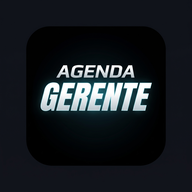
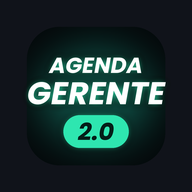
Agenda del Gerente v2.3.0: ícono propio 2.0 en menta, etiqueta 2.0 en el encabezado y nombre Agenda 2.0
Claude-Session: https://claude.ai/code/session_015HPKsB2LxDumpeuGcFNri5

diff --git a/index.html b/index.html
@@ -6,8 +6,8 @@
 <title>Agenda del Gerente</title>
 <meta name="theme-color" content="#1C2B39">
 <link rel="manifest" href="manifest.json">
-<link rel="icon" type="image/png" sizes="32x32" href="icons/favicon-32.png">
-<link rel="apple-touch-icon" href="icons/apple-touch-icon.png">
+<link rel="icon" type="image/png" sizes="32x32" href="icons/favicon-32.png?v=3">
+<link rel="apple-touch-icon" href="icons/apple-touch-icon.png?v=3">
 <meta name="apple-mobile-web-app-capable" content="yes">
 <link rel="preconnect" href="https://fonts.googleapis.com">
 <link rel="preconnect" href="https://fonts.gstatic.com" crossorigin>
@@ -116,6 +116,7 @@ details.add[open] .addbox{border-color:var(--m1);background:#F6FAFE}
 .tipos.err .tipo{border-color:var(--m3)}
 .p.flash{animation:pflash 2s ease-out}
 @keyframes pflash{0%{box-shadow:0 0 0 3px var(--ok),0 10px 26px rgba(47,122,77,.38);background:var(--ok-soft)}60%{box-shadow:0 0 0 3px var(--ok),0 6px 18px rgba(47,122,77,.2);background:var(--ok-soft)}100%{box-shadow:0 0 0 0 transparent;background:var(--surface)}}
+.v2tag{display:inline-block;vertical-align:middle;margin-left:6px;padding:2px 9px;border-radius:99px;background:#2EE6B0;color:#06231B;font-size:12px;font-weight:800;letter-spacing:.02em}
 .chip.pulse{animation:cpulse .9s ease-out 2}
 @keyframes cpulse{0%{box-shadow:0 0 0 0 rgba(30,95,168,.55)}100%{box-shadow:0 0 0 9px rgba(30,95,168,0)}}
 @media (prefers-reduced-motion:reduce){.p.flash,.chip.pulse{animation:none}}
@@ -194,7 +195,7 @@ details.hist div{font-size:11.5px;color:var(--muted);margin-top:3px}
 <div class="app" id="app" style="visibility:hidden">
   <div class="brand">
[1 lines of base64/hex data omitted]
-    <div class="btop"><h1>Agenda del Gerente</h1><input type="date" class="bdate" id="fecha" aria-label="Fecha"></div>
+    <div class="btop"><h1>Agenda del Gerente <span class="v2tag">2.0</span></h1><input type="date" class="bdate" id="fecha" aria-label="Fecha"></div>
     <p class="bphrase">La gota rompe la piedra no por la fuerza, sino por su constancia.</p>
   </div>
 
@@ -305,7 +306,7 @@ details.hist div{font-size:11.5px;color:var(--muted);margin-top:3px}
     </div>
   </section>
 
-  <div class="footer">— created by <b>Joe Fdz &amp; Claude !!</b> · v2.2.0 —</div>
+  <div class="footer">— created by <b>Joe Fdz &amp; Claude !!</b> · v2.3.0 —</div>
 </div>
 
 <div class="modal" id="modal"><div class="sheet" id="sheet"></div></div>
@@ -315,7 +316,7 @@ details.hist div{font-size:11.5px;color:var(--muted);margin-top:3px}
 (function(){
 'use strict';
 const $=s=>document.querySelector(s), $$=s=>document.querySelectorAll(s);
-const VERSION='2.2.0';
+const VERSION='2.3.0';
 const PFX='gerente2:';
 
 /* ---------- candado de acceso (una vez por aparato) ---------- */

diff --git a/sw.js b/sw.js
@@ -1,7 +1,7 @@
 // Service worker de Agenda del Gerente v2. Red primero, caché como respaldo.
 // OJO: los repos de GitHub Pages de José comparten dominio, así que el nombre del caché
 // lleva prefijo propio y al limpiar solo se borran cachés con ESE prefijo.
-const CACHE_VERSION = 'v4';
+const CACHE_VERSION = 'v5';
 const PREFIX = 'agenda-gerente2-';
 const CACHE_NAME = PREFIX + CACHE_VERSION;
 const CORE_ASSETS = ['./', './index.html', './manifest.json'];
